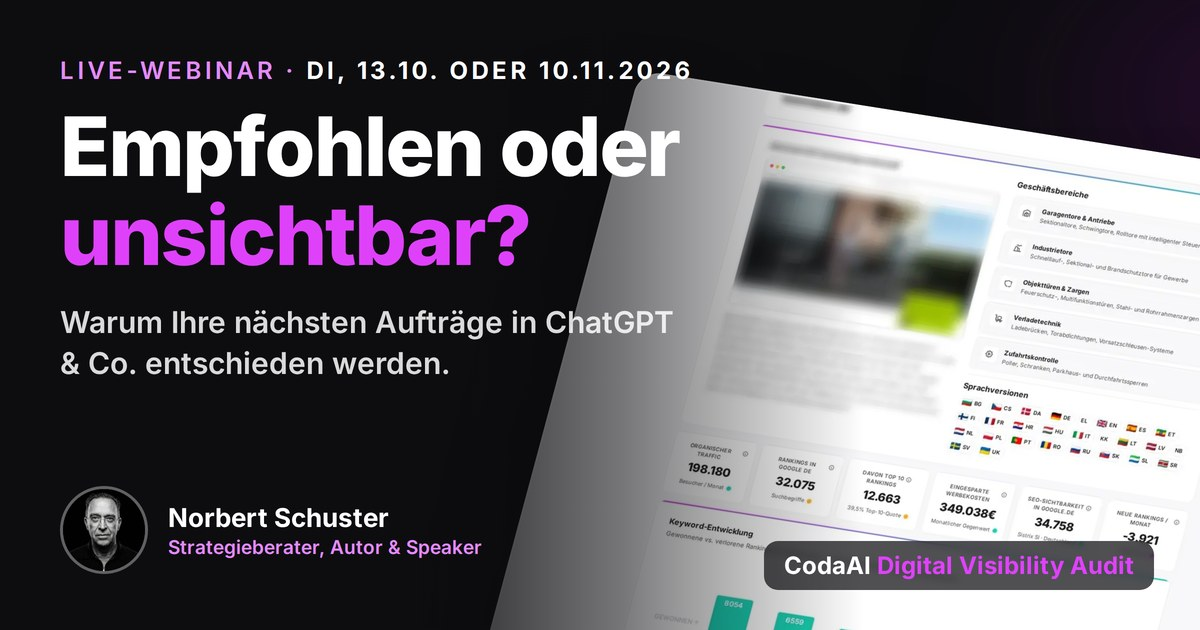
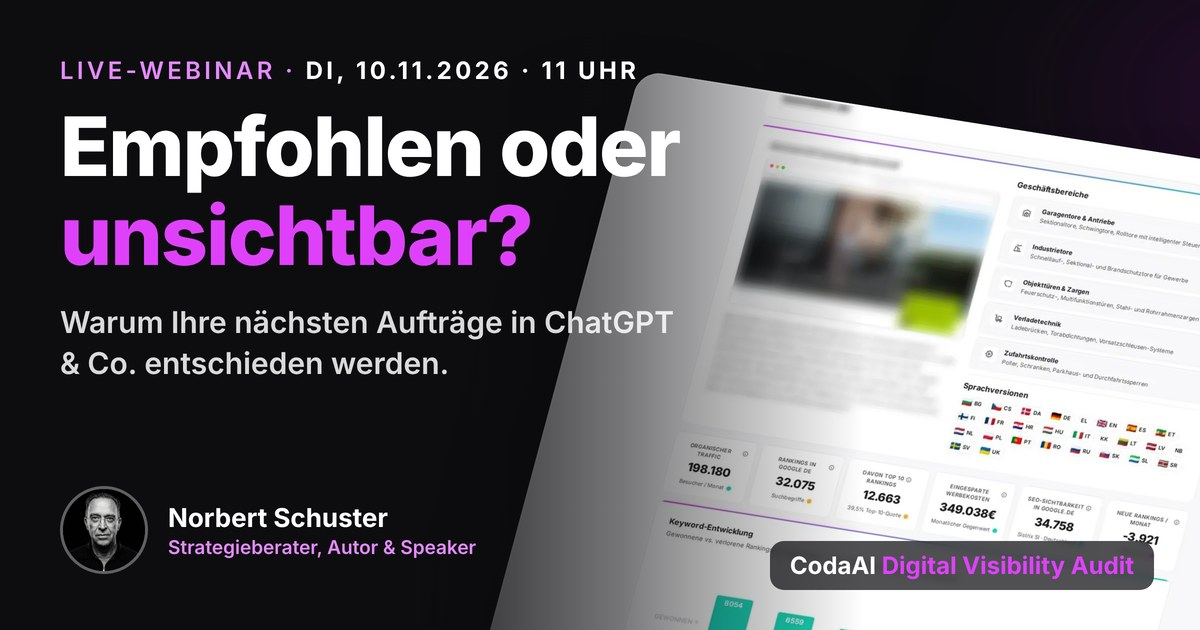
Webinar: 13.10. faellt aus — nur noch Di 10.11.2026, 11:00 Uhr
Terminwahl entfernt (bei einem Termin unsichtbar, Slot wird weiter mitgeschickt),
Hero-/Footer-/Studie-Texte, Event-Schema, Countdown, llms.txt und OG-Bild auf 10.11.

Claude-Session: https://claude.ai/code/session_01J2s1urbxhsudx5fxod8bum

diff --git a/src/data/webinar-slots.ts b/src/data/webinar-slots.ts
@@ -1,6 +1,8 @@
 /**
  * Webinar-Termine — EINE Quelle für /webinar, /en/webinar, WebinarSignup und Event-Schema.
- * 01.10.2026: zwei Termine zur Wahl (Oli). Die Seite blendet einen Termin clientseitig aus,
+ * 01.10.2026: zwei Termine zur Wahl (Oli). 06.10.2026: Der Termin 13.10. faellt aus — es gibt nur
+ * noch den 10.11.2026, 11:00 Uhr. Bei nur einem Termin zeigen die Seiten keine Terminwahl mehr,
+ * der Slot wird unsichtbar mitgeschickt. Die Seite blendet einen Termin clientseitig aus,
  * sobald dessen Ende (`end`) vorbei ist — ohne neuen Build. `id` ist der Slot, den das
  * Apps Script erwartet (WEBINAR_SLOTS in Code.gs). Achtung Zeitzone: Oktober = MESZ (+02:00),
  * November = MEZ (+01:00).
@@ -14,13 +16,6 @@ export interface WebinarSlot {
 }
 
 export const WEBINAR_SLOTS: WebinarSlot[] = [
-  {
-    id: '2026-10-13',
-    start: '2026-10-13T11:00:00+02:00',
-    end: '2026-10-13T12:00:00+02:00',
-    de: { day: 'Di', dayLong: 'Dienstag', date: '13.10.2026', dateShort: '13.10.', dateLong: '13. Oktober 2026', time: '11:00–12:00 Uhr' },
-    en: { day: 'Tue', dayLong: 'Tuesday', date: '13 October 2026', dateShort: '13 Oct', time: '11:00–12:00 CEST' },
-  },
   {
     id: '2026-11-10',
     start: '2026-11-10T11:00:00+01:00',

diff --git a/src/pages/llms-full.txt.ts b/src/pages/llms-full.txt.ts
@@ -28,7 +28,7 @@ Auswertung von 7.184 KI-Antworten zu 449 mittelständischen Unternehmen aus 258 
 
 ### Webinar „Empfohlen oder unsichtbar?"
 URL: ${BASE_URL}/webinar/
-Kostenloses Webinar am 13.10.2026 oder alternativ am 10.11.2026 (jeweils 11:00 Uhr) mit Norbert Schuster (strike2) und Oliver Parrizas: wie Buying Center heute recherchieren, und ein Live-Audit.
+Kostenloses Webinar am Dienstag, 10.11.2026, 11:00 Uhr, mit Norbert Schuster (strike2) und Oliver Parrizas: wie Buying Center heute recherchieren, und ein Live-Audit.
 
 ### Fragen & Antworten
 URL: ${BASE_URL}/faq/

diff --git a/src/data/faq.en.ts b/src/data/faq.en.ts
@@ -119,7 +119,7 @@ export const faqPricingEn: FaqItem[] = [
   },
 ];
 
-/* ── /en/webinar/: the live webinars (13.10. / 10.11.2026)────────────────────────
+/* ── /en/webinar/: the live webinar (10.11.2026; 13.10. cancelled)────────────────────
    Note the first entry: the webinar is held in GERMAN. That has to be said
    plainly on the English page — on this page, in the hero and above the
    registration form. Anything else sets the reader up for a wasted hour. */

diff --git a/src/data/faq.ts b/src/data/faq.ts
@@ -116,7 +116,7 @@ export const faqPreise: FaqItem[] = [
   },
 ];
 
-/* ── /webinar: Teilnahme am Live-Webinar (13.10. / 10.11.2026)───────────────────── */
+/* ── /webinar: Teilnahme am Live-Webinar (10.11.2026; 13.10. entfaellt)────────────────── */
 export const faqWebinar: FaqItem[] = [
   {
     q: 'Wie erhalte ich den Zugangslink?',
